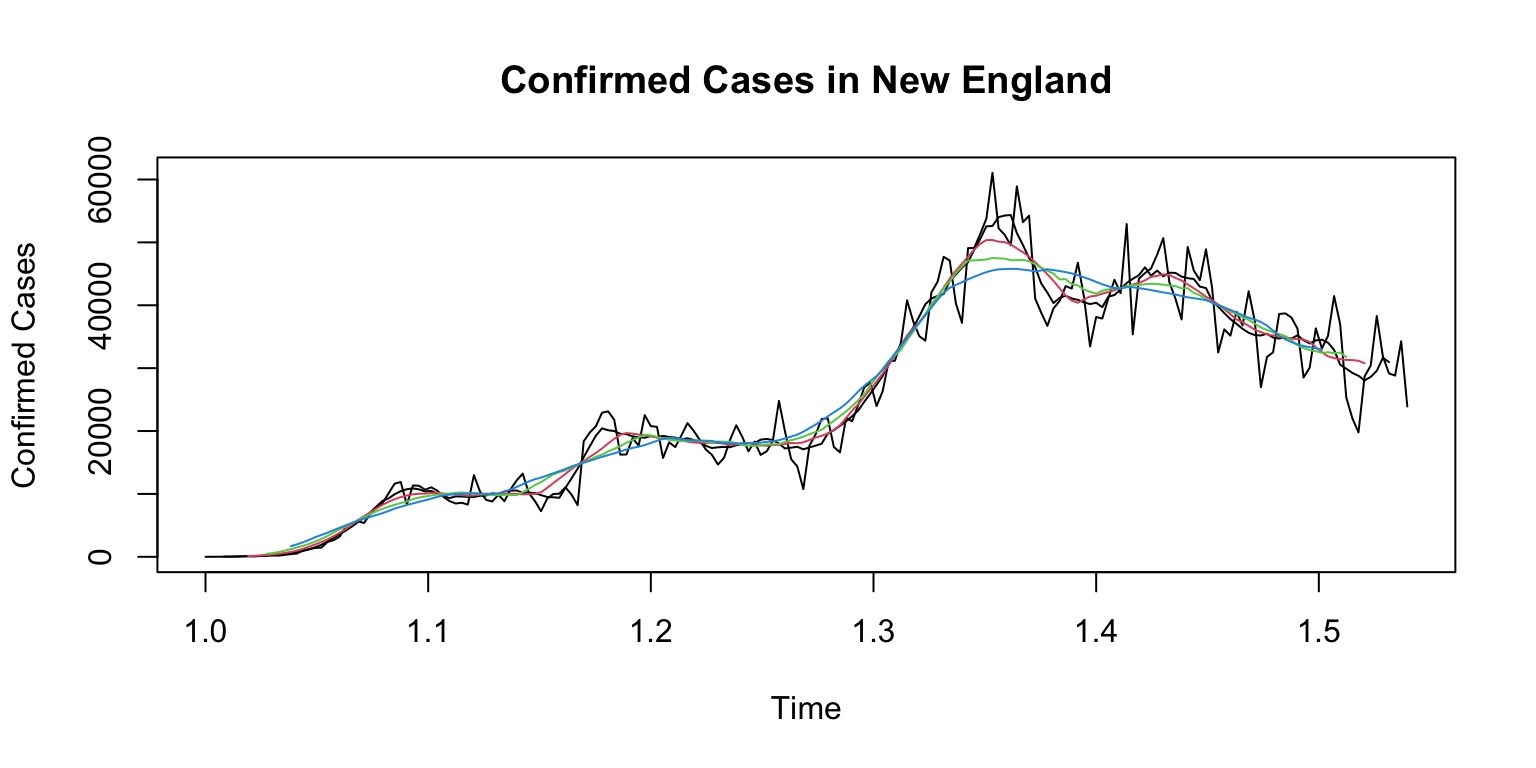
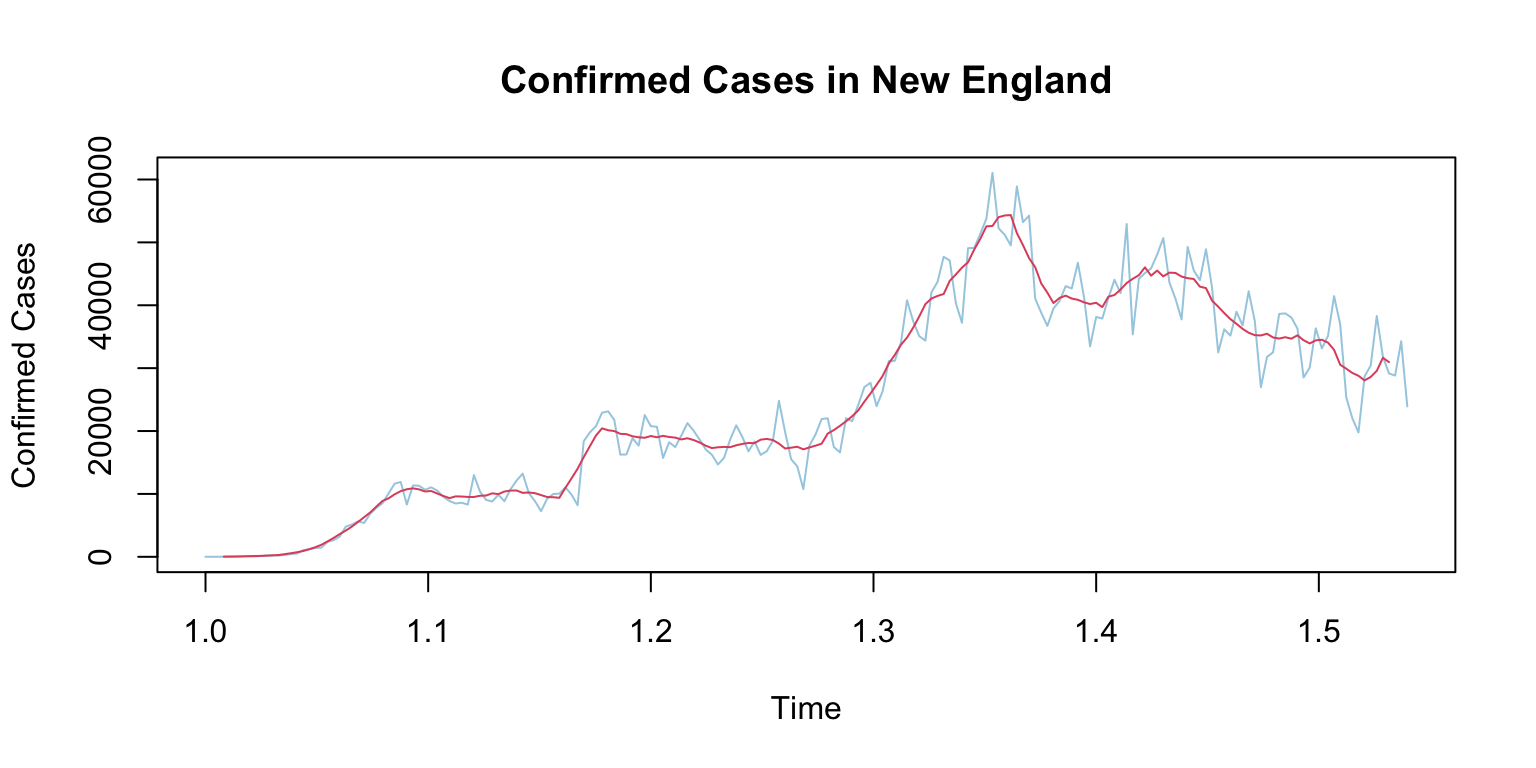
remove run files

diff --git a/models/Prophet_Multiple_Regressors/TIME_multiR.html b/models/Prophet_Multiple_Regressors/TIME_multiR.html
@@ -171,18 +171,41 @@ pre > code.sourceCode > span > a:first-child::before { text-decoration: underlin
 </div>
 <div class="cell" data-layout-align="center">
 <div class="sourceCode cell-code" id="cb4"><pre class="sourceCode r code-with-copy"><code class="sourceCode r"><span id="cb4-1"><a href="#cb4-1" aria-hidden="true" tabindex="-1"></a>ts_ne <span class="ot">&lt;-</span> <span class="fu">ts</span>(df_xts<span class="sc">$</span>region_confirmed, <span class="at">frequency =</span> <span class="dv">365</span>)</span>
-<span id="cb4-2"><a href="#cb4-2" aria-hidden="true" tabindex="-1"></a><span class="fu">plot</span>(ts_ne, <span class="at">main =</span> <span class="st">"Confirmed Cases in New England"</span>, <span class="at">ylab =</span> <span class="st">"Confirmed Cases"</span>)</span>
+<span id="cb4-2"><a href="#cb4-2" aria-hidden="true" tabindex="-1"></a></span>
 <span id="cb4-3"><a href="#cb4-3" aria-hidden="true" tabindex="-1"></a><span class="co"># Apply moving average with different window sizes</span></span>
 <span id="cb4-4"><a href="#cb4-4" aria-hidden="true" tabindex="-1"></a></span>
 <span id="cb4-5"><a href="#cb4-5" aria-hidden="true" tabindex="-1"></a></span>
 <span id="cb4-6"><a href="#cb4-6" aria-hidden="true" tabindex="-1"></a><span class="cf">for</span> (i <span class="cf">in</span> <span class="fu">c</span>(<span class="dv">7</span>, <span class="dv">14</span>, <span class="dv">21</span>, <span class="dv">28</span>)) {</span>
-<span id="cb4-7"><a href="#cb4-7" aria-hidden="true" tabindex="-1"></a>    trend <span class="ot">&lt;-</span> <span class="fu">ma</span>(ts_ne, <span class="at">order =</span> i, <span class="at">centre =</span> <span class="cn">TRUE</span>)</span>
-<span id="cb4-8"><a href="#cb4-8" aria-hidden="true" tabindex="-1"></a>    <span class="fu">lines</span>(trend, <span class="at">col =</span> pal[i<span class="sc">/</span><span class="dv">7</span>], <span class="at">lwd =</span> <span class="dv">1</span>)</span>
-<span id="cb4-9"><a href="#cb4-9" aria-hidden="true" tabindex="-1"></a>}</span></code><button title="Copy to Clipboard" class="code-copy-button"><i class="bi"></i></button></pre></div>
+<span id="cb4-7"><a href="#cb4-7" aria-hidden="true" tabindex="-1"></a>    <span class="fu">plot</span>(ts_ne, <span class="at">main =</span> <span class="st">"Confirmed Cases in New England"</span>, <span class="at">ylab =</span> <span class="st">"Confirmed Cases"</span>,</span>
+<span id="cb4-8"><a href="#cb4-8" aria-hidden="true" tabindex="-1"></a>        <span class="at">col =</span> <span class="dv">1</span>)</span>
+<span id="cb4-9"><a href="#cb4-9" aria-hidden="true" tabindex="-1"></a>    trend <span class="ot">&lt;-</span> <span class="fu">ma</span>(ts_ne, <span class="at">order =</span> i, <span class="at">centre =</span> <span class="cn">TRUE</span>)</span>
+<span id="cb4-10"><a href="#cb4-10" aria-hidden="true" tabindex="-1"></a>    <span class="fu">lines</span>(trend, <span class="at">col =</span> pal[i<span class="sc">/</span><span class="dv">7</span> <span class="sc">+</span> <span class="dv">1</span>], <span class="at">lwd =</span> <span class="dv">1</span>)</span>
+<span id="cb4-11"><a href="#cb4-11" aria-hidden="true" tabindex="-1"></a>}</span></code><button title="Copy to Clipboard" class="code-copy-button"><i class="bi"></i></button></pre></div>
 <div class="cell-output-display">
 <div class="quarto-figure quarto-figure-center">
 <figure class="figure">
 <p><img src="Figs/unnamed-chunk-4-1.png" class="img-fluid figure-img" width="768"></p>
+</figure>
+</div>
+</div>
+<div class="cell-output-display">
+<div class="quarto-figure quarto-figure-center">
+<figure class="figure">
+<p><img src="Figs/unnamed-chunk-4-2.png" class="img-fluid figure-img" width="768"></p>
+</figure>
+</div>
+</div>
+<div class="cell-output-display">
+<div class="quarto-figure quarto-figure-center">
+<figure class="figure">
+<p><img src="Figs/unnamed-chunk-4-3.png" class="img-fluid figure-img" width="768"></p>
+</figure>
+</div>
+</div>
+<div class="cell-output-display">
+<div class="quarto-figure quarto-figure-center">
+<figure class="figure">
+<p><img src="Figs/unnamed-chunk-4-4.png" class="img-fluid figure-img" width="768"></p>
 </figure>
 </div>
 </div>
@@ -202,8 +225,8 @@ pre > code.sourceCode > span > a:first-child::before { text-decoration: underlin
 <p>The process here is the same as for the additive model. Airline passenger number seasonality also looks annual. However, it is recorded monthly, so we choose a moving average window of 12.</p>
 <p>Multiplicative The process here is the same as for the additive model. Airline passenger number seasonality also looks annual. However, it is recorded monthly, so we choose a moving average window of 12. Multiplicative The process here is the same as for the additive model. Airline passenger number seasonality also looks annual. However, it is recorded monthly, so we choose a moving average window of 12.</p>
 </section>
-<section id="step-3-detrend-the-time-series" class="level3">
-<h3 class="anchored" data-anchor-id="step-3-detrend-the-time-series">Step 3: Detrend the Time Series</h3>
+<section id="detrend-the-time-series" class="level3">
+<h3 class="anchored" data-anchor-id="detrend-the-time-series">3: Detrend the Time Series</h3>
 <p>Removing the previously calculated trend from the time series will result into a new time series that clearly exposes seasonality</p>
 <p>Therefore, I started with intentionally removing the seasonal component from the time series. Here common sense matters - weekly, monthly, quarterly, yearly. They are at least the way we think about time in daily life. It would hardly makes sense if i say, the time series is 3.5 days. So only monthly and weekly are reasonable. I did both, and since the data only spanned 6 months, I chose weeks as the frequency.</p>
 <p>The order of the moving average determines the smoothness of the trend-cycle estimate. In general, a larger order means a smoother curve.</p>
@@ -222,7 +245,7 @@ pre > code.sourceCode > span > a:first-child::before { text-decoration: underlin
 </div>
 </section>
 <section id="seasonality-adjustment" class="level3">
-<h3 class="anchored" data-anchor-id="seasonality-adjustment">Seasonality Adjustment</h3>
+<h3 class="anchored" data-anchor-id="seasonality-adjustment">4. Seasonality Adjustment</h3>
 <p>We remove the trend component to focus on seasonality. The frequency of data collection influences our choice of seasonality.</p>
 <p>Removing the previously calculated trend from the time series will result into a new time series that clearly exposes seasonality.</p>
 <p>From the detrended time series, it’s easy to compute the average</p>
@@ -275,9 +298,8 @@ pre > code.sourceCode > span > a:first-child::before { text-decoration: underlin
 </div>
 </section>
 <section id="reconstruct-the-original-signal" class="level3">
-<h3 class="anchored" data-anchor-id="reconstruct-the-original-signal">Reconstruct the Original Signal</h3>
+<h3 class="anchored" data-anchor-id="reconstruct-the-original-signal">5 Reconstruct the Original Signal</h3>
 <p>The decomposed time series can logically be recomposed using the model formula to reproduce the original signal. Some data points will be missing at the beginning and the end of the reconstructed time series, due to the moving average windows which must consume some data before producing average data points.</p>
-<p>FOrmualt of the mulplcuiatieve</p>
 <div class="cell" data-layout-align="center">
 <div class="sourceCode cell-code" id="cb11"><pre class="sourceCode r code-with-copy"><code class="sourceCode r"><span id="cb11-1"><a href="#cb11-1" aria-hidden="true" tabindex="-1"></a>reconstruct <span class="ot">=</span> monthly_trend <span class="sc">*</span> weekly_seasonality <span class="sc">*</span> random_component</span>
 <span id="cb11-2"><a href="#cb11-2" aria-hidden="true" tabindex="-1"></a><span class="fu">plot</span>(<span class="fu">as.ts</span>(reconstruct))</span></code><button title="Copy to Clipboard" class="code-copy-button"><i class="bi"></i></button></pre></div>
@@ -289,10 +311,6 @@ pre > code.sourceCode > span > a:first-child::before { text-decoration: underlin
 </div>
 </div>
 </div>
-</section>
-</section>
-<section id="inedeed-we-can-very-the-fdecompsotiuon-process." class="level2">
-<h2 class="anchored" data-anchor-id="inedeed-we-can-very-the-fdecompsotiuon-process.">Inedeed, we can very the fdecompsotiuon process. !</h2>
 <p>Multiplicative The only requirement: seasonality is monthly (frequency = 12)</p>
 <div class="cell" data-layout-align="center">
 <div class="sourceCode cell-code" id="cb12"><pre class="sourceCode r code-with-copy"><code class="sourceCode r"><span id="cb12-1"><a href="#cb12-1" aria-hidden="true" tabindex="-1"></a><span class="fu">par</span>(<span class="at">mfrow =</span> <span class="fu">c</span>(<span class="dv">2</span>, <span class="dv">2</span>), <span class="at">mar =</span> <span class="fu">c</span>(<span class="dv">2</span>, <span class="dv">2</span>, <span class="dv">2</span>, <span class="dv">2</span>), <span class="at">xlabs =</span> <span class="st">""</span>, <span class="at">ylabs =</span> <span class="st">""</span>)</span>
@@ -310,7 +328,6 @@ pre > code.sourceCode > span > a:first-child::before { text-decoration: underlin
 </div>
 </div>
 </div>
-<p>Conclusion Decomposition is often used to remove the seasonal effect from a time series. It provides a cleaner way to understand trends. For instance, lower ice cream sales during winter don’t necessarily mean a company is performing poorly. To know whether or not this is the case, we need to remove the seasonality from the time series. Here, at Anomaly.io we detect anomalies, and we use seasonally adjusted time series to do so. We also use the random (also call remainder) time series from the decomposed time series to detect anomalies and outliers.</p>
 <div class="cell" data-layout-align="center">
 <div class="sourceCode cell-code" id="cb13"><pre class="sourceCode r code-with-copy"><code class="sourceCode r"><span id="cb13-1"><a href="#cb13-1" aria-hidden="true" tabindex="-1"></a><span class="co"># square figure size</span></span>
 <span id="cb13-2"><a href="#cb13-2" aria-hidden="true" tabindex="-1"></a><span class="fu">par</span>(<span class="at">mfrow =</span> <span class="fu">c</span>(<span class="dv">1</span>, <span class="dv">1</span>), <span class="at">mar =</span> <span class="fu">c</span>(<span class="dv">4</span>, <span class="dv">2</span>, <span class="dv">2</span>, <span class="dv">4</span>), <span class="at">xlabs =</span> <span class="st">""</span>, <span class="at">ylabs =</span> <span class="st">""</span>)</span>
@@ -323,14 +340,12 @@ pre > code.sourceCode > span > a:first-child::before { text-decoration: underlin
 </div>
 </div>
 </div>
+</section>
 <section id="conclusion" class="level3">
-<h3 class="anchored" data-anchor-id="conclusion">Conclusion</h3>
-<p>Through decomposing the COVID-19 time series data, we gain valuable insights into the trends, seasonality, and random variations of the virus spread. This analysis aids in understanding the dynamics of the pandemic and assists in future forecasting and planning. ::: {style=“color:blue”} <strong>Monthly Trend &amp; Weekly Seasonality</strong> :::</p>
+<h3 class="anchored" data-anchor-id="conclusion">6 Conclusion</h3>
+<p>Through decomposing the COVID-19 time series data, we gain valuable insights into the trends, seasonality, and random variations of the virus spread. This analysis aids in understanding the dynamics of the pandemic and assists in future forecasting and planning.</p>
+<p><strong>Monthly Trend &amp; Weekly Seasonality</strong></p>
 <p>This structured report combines code and explanations, aiming to provide a comprehensive analysis of the COVID-19 data using time series decomposition. You can adjust the code and the explanations as needed to fit your dataset and analysis goals.</p>
-<div class="cell" data-layout-align="center">
-<div class="sourceCode cell-code" id="cb14"><pre class="sourceCode r code-with-copy"><code class="sourceCode r"><span id="cb14-1"><a href="#cb14-1" aria-hidden="true" tabindex="-1"></a><span class="co"># knit word file</span></span>
-<span id="cb14-2"><a href="#cb14-2" aria-hidden="true" tabindex="-1"></a><span class="fu">library</span>(rmarkdown)</span></code><button title="Copy to Clipboard" class="code-copy-button"><i class="bi"></i></button></pre></div>
-</div>
 </section>
 </section>
 
